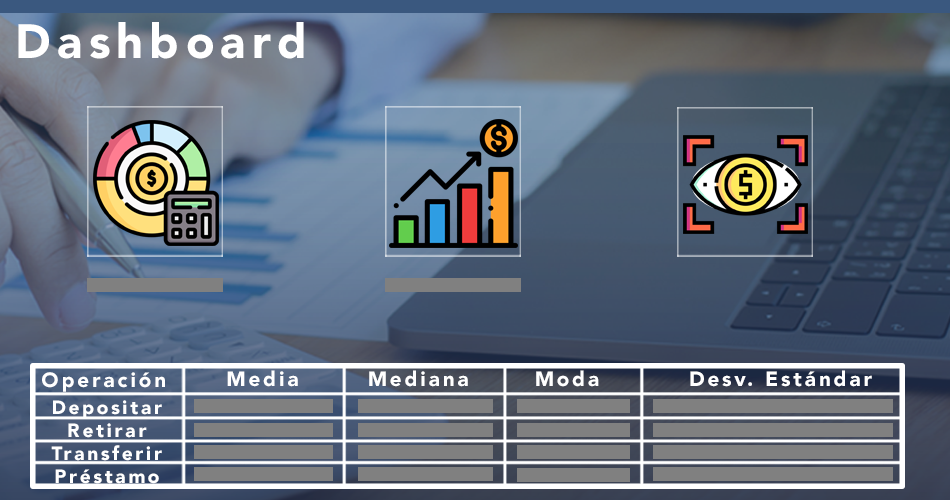
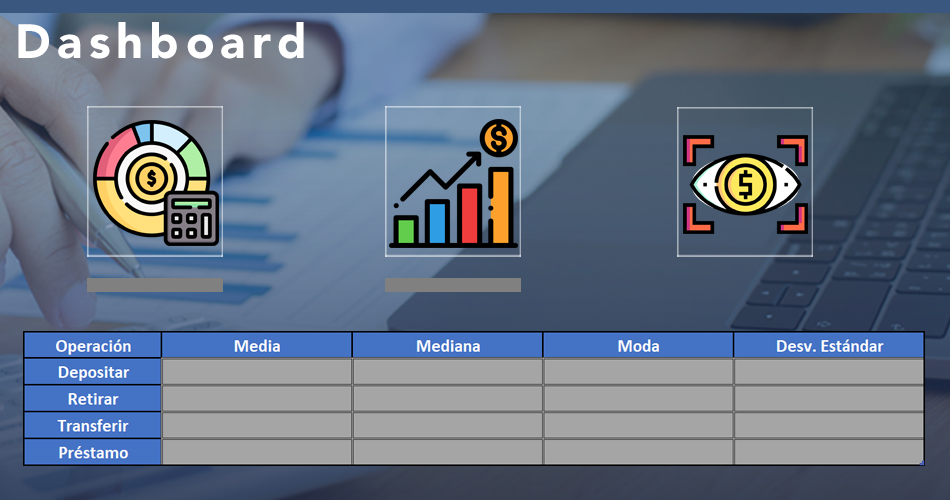
Tabla del dashboard bonita

Changed region(s): [[0.0, 0.66, 0.9768, 0.99]]

diff --git a/Main - Menú.py b/Main - Menú.py
@@ -755,6 +755,7 @@ def abrirGrafico():
                 label = ["Transferir"]
                 plt.pie(operaciones, labels=label, autopct="%0.1f %%")
                 plt.show()
+        
         def MovimientoDinero():
             global Dep,Ret,Trans,Presta,contadorfinal2
             contadorfinal2=contadorfinal2+Dep+Ret+Trans+Presta
@@ -917,56 +918,56 @@ def abrirGrafico():
                 mediaPresta=int(contadorPresta/cont4)
 
                 #             label media
-                mediaDep=ttk.Label(ventanaGrafico,text=mediaDep)
-                mediaDep.place(x=195,y=400, width=140, height=16)
-                mediaRet=ttk.Label(ventanaGrafico,text=mediaRet)
-                mediaRet.place(x=195,y=424, width=140, height=16)
-                mediaTrans=ttk.Label(ventanaGrafico,text=mediaTrans)
-                mediaTrans.place(x=195,y=445, width=140, height=16)
-                mediaPresta=ttk.Label(ventanaGrafico,text=mediaPresta)
-                mediaPresta.place(x=195,y=468, width=140, height=16)
+                mediaDep=ttk.Label(ventanaGrafico,text=mediaDep, anchor="center")
+                mediaDep.place(x=165,y=360, width=188, height=25)
+                mediaRet=ttk.Label(ventanaGrafico,text=mediaRet, anchor="center")
+                mediaRet.place(x=165,y=387, width=188, height=25)
+                mediaTrans=ttk.Label(ventanaGrafico,text=mediaTrans, anchor="center")
+                mediaTrans.place(x=165,y=414, width=188, height=25)
+                mediaPresta=ttk.Label(ventanaGrafico,text=mediaPresta, anchor="center")
+                mediaPresta.place(x=165,y=441, width=188, height=25)
                 #Mediana
                 medianaDep=(stats.median(ListaDep))
                 medianaRet=(stats.median(ListaRet))
                 medianaTrans=(stats.median(ListaTrans))
                 medianaPresta=(stats.median(ListaPresta))
 
-                medianaDepo=ttk.Label(ventanaGrafico,text=medianaDep)
-                medianaDepo.place(x=359,y=400, width=135, height=16)
-                medianaReti=ttk.Label(ventanaGrafico,text=medianaRet)
-                medianaReti.place(x=359,y=424, width=135, height=16)
-                medianaTransf=ttk.Label(ventanaGrafico,text=medianaTrans)
-                medianaTransf.place(x=359,y=445, width=135, height=16)
-                medianaPrestam=ttk.Label(ventanaGrafico,text=medianaPresta)
-                medianaPrestam.place(x=359,y=468, width=135, height=16)
+                medianaDepo=ttk.Label(ventanaGrafico,text=medianaDep, anchor="center")
+                medianaDepo.place(x=355,y=360, width=188, height=25)
+                medianaReti=ttk.Label(ventanaGrafico,text=medianaRet, anchor="center")
+                medianaReti.place(x=355,y=387, width=188, height=25)
+                medianaTransf=ttk.Label(ventanaGrafico,text=medianaTrans, anchor="center")
+                medianaTransf.place(x=355,y=414, width=188, height=25)
+                medianaPrestam=ttk.Label(ventanaGrafico,text=medianaPresta, anchor="center")
+                medianaPrestam.place(x=355,y=441, width=188, height=25)
                 #Moda
                 modaDep=(stats.mode(ListaDep))
                 modaRet=(stats.mode(ListaRet))
                 modaTrans=(stats.mode(ListaTrans))
                 modaPresta=(stats.mode(ListaPresta))
 
-                modaDepo=ttk.Label(ventanaGrafico,text= modaDep)
-                modaDepo.place(x=518,y=400, width=113, height=16)
-                modaReti=ttk.Label(ventanaGrafico,text= modaRet)
-                modaReti.place(x=518,y=424, width=113, height=16)
-                modaTransf=ttk.Label(ventanaGrafico,text= modaTrans)
-                modaTransf.place(x=518,y=445, width=113, height=16)
-                modaPrestam=ttk.Label(ventanaGrafico,text= modaPresta)
-                modaPrestam.place(x=518,y=468, width=113, height=16)
+                modaDepo=ttk.Label(ventanaGrafico,text= modaDep, anchor="center")
+                modaDepo.place(x=545,y=360, width=188, height=25)
+                modaReti=ttk.Label(ventanaGrafico,text= modaRet, anchor="center")
+                modaReti.place(x=545,y=387, width=188, height=25)
+                modaTransf=ttk.Label(ventanaGrafico,text= modaTrans, anchor="center")
+                modaTransf.place(x=545,y=414, width=188, height=25)
+                modaPrestam=ttk.Label(ventanaGrafico,text= modaPresta, anchor="center")
+                modaPrestam.place(x=545,y=441, width=188, height=25)
                 #desv estandar
                 DesvDep=(stats.mode(ListaDep))
                 DesvRet=(stats.mode(ListaRet))
                 DesvTrans=(stats.mode(ListaTrans))
                 DesvPresta=(stats.mode(ListaPresta))
 
-                DesDepo=ttk.Label(ventanaGrafico,text= DesvDep)
-                DesDepo.place(x=654,y=400, width=240, height=16)
-                DesReti=ttk.Label(ventanaGrafico,text= DesvRet)
-                DesReti.place(x=654,y=424, width=240, height=16)
-                DesTransf=ttk.Label(ventanaGrafico,text= DesvTrans)
-                DesTransf.place(x=654,y=445, width=240, height=16)
-                DesPrestam=ttk.Label(ventanaGrafico,text= DesvPresta)
-                DesPrestam.place(x=654,y=468, width=240, height=16)
+                DesDepo=ttk.Label(ventanaGrafico,text= DesvDep, anchor="center")
+                DesDepo.place(x=736,y=360, width=188, height=25)
+                DesReti=ttk.Label(ventanaGrafico,text= DesvRet, anchor="center")
+                DesReti.place(x=736,y=387, width=188, height=25)
+                DesTransf=ttk.Label(ventanaGrafico,text= DesvTrans, anchor="center")
+                DesTransf.place(x=736,y=414, width=188, height=25)
+                DesPrestam=ttk.Label(ventanaGrafico,text= DesvPresta, anchor="center")
+                DesPrestam.place(x=736,y=441, width=188, height=25)
             #-------------LISTO-----------------
             elif(cont1>=1 and cont2>=1 and cont3>=0 and cont4>=0):
                 #Media
@@ -1064,7 +1065,7 @@ def abrirGrafico():
                 mediaPresta=int(contadorPresta/cont4)
 
                 mediaDep=ttk.Label(ventanaGrafico,text=mediaDep)
-                mediaDep.place(x=195,y=400, width=140, height=16)
+                mediaDep.place(x=162,y=360, width=190, height=26)
                 mediaTrans=ttk.Label(ventanaGrafico,text=mediaTrans)
                 mediaTrans.place(x=195,y=445, width=140, height=16)
                 mediaPresta=ttk.Label(ventanaGrafico,text=mediaPresta)
@@ -1076,7 +1077,7 @@ def abrirGrafico():
                 medianaPresta=(stats.median(ListaPresta))
 
                 medianaDepo=ttk.Label(ventanaGrafico,text=medianaDep)
-                medianaDepo.place(x=359,y=400, width=135, height=16)
+                medianaDepo.place(x=359,y=400, width=190, height=26)
                 medianaTransf=ttk.Label(ventanaGrafico,text=medianaTrans)
                 medianaTransf.place(x=359,y=445, width=135, height=16)
                 medianaPrestam=ttk.Label(ventanaGrafico,text=medianaPresta)
@@ -2156,7 +2157,7 @@ def itemSeleccionado(event):
             ventanaClientes.title("Cliente 19")
             ventanaClientes.geometry("500x250")
             ventanaClientes.resizable(width=False, height=False)
-
+    
             img = PhotoImage (file = "./ventanaClientes.png") 
             fondo=Label(ventanaClientes, image = img).place( x=0, y=0)
 
